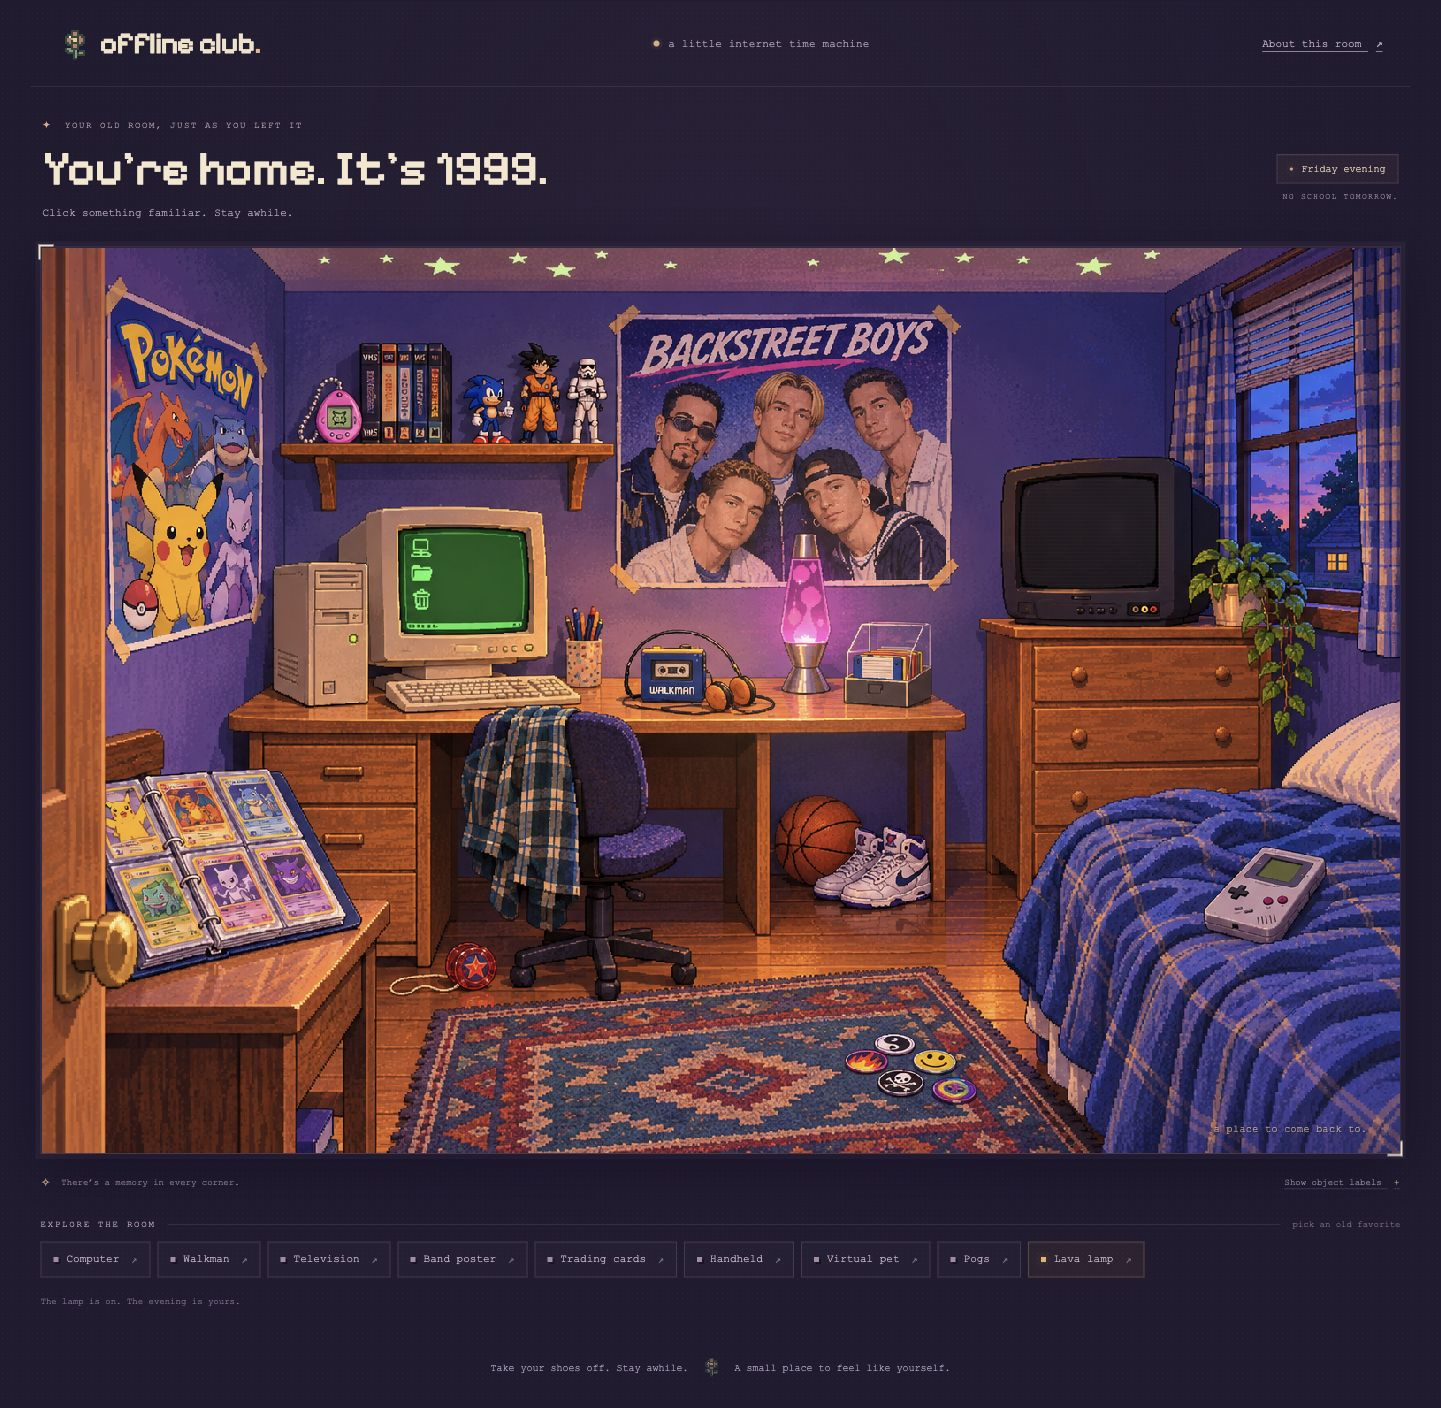
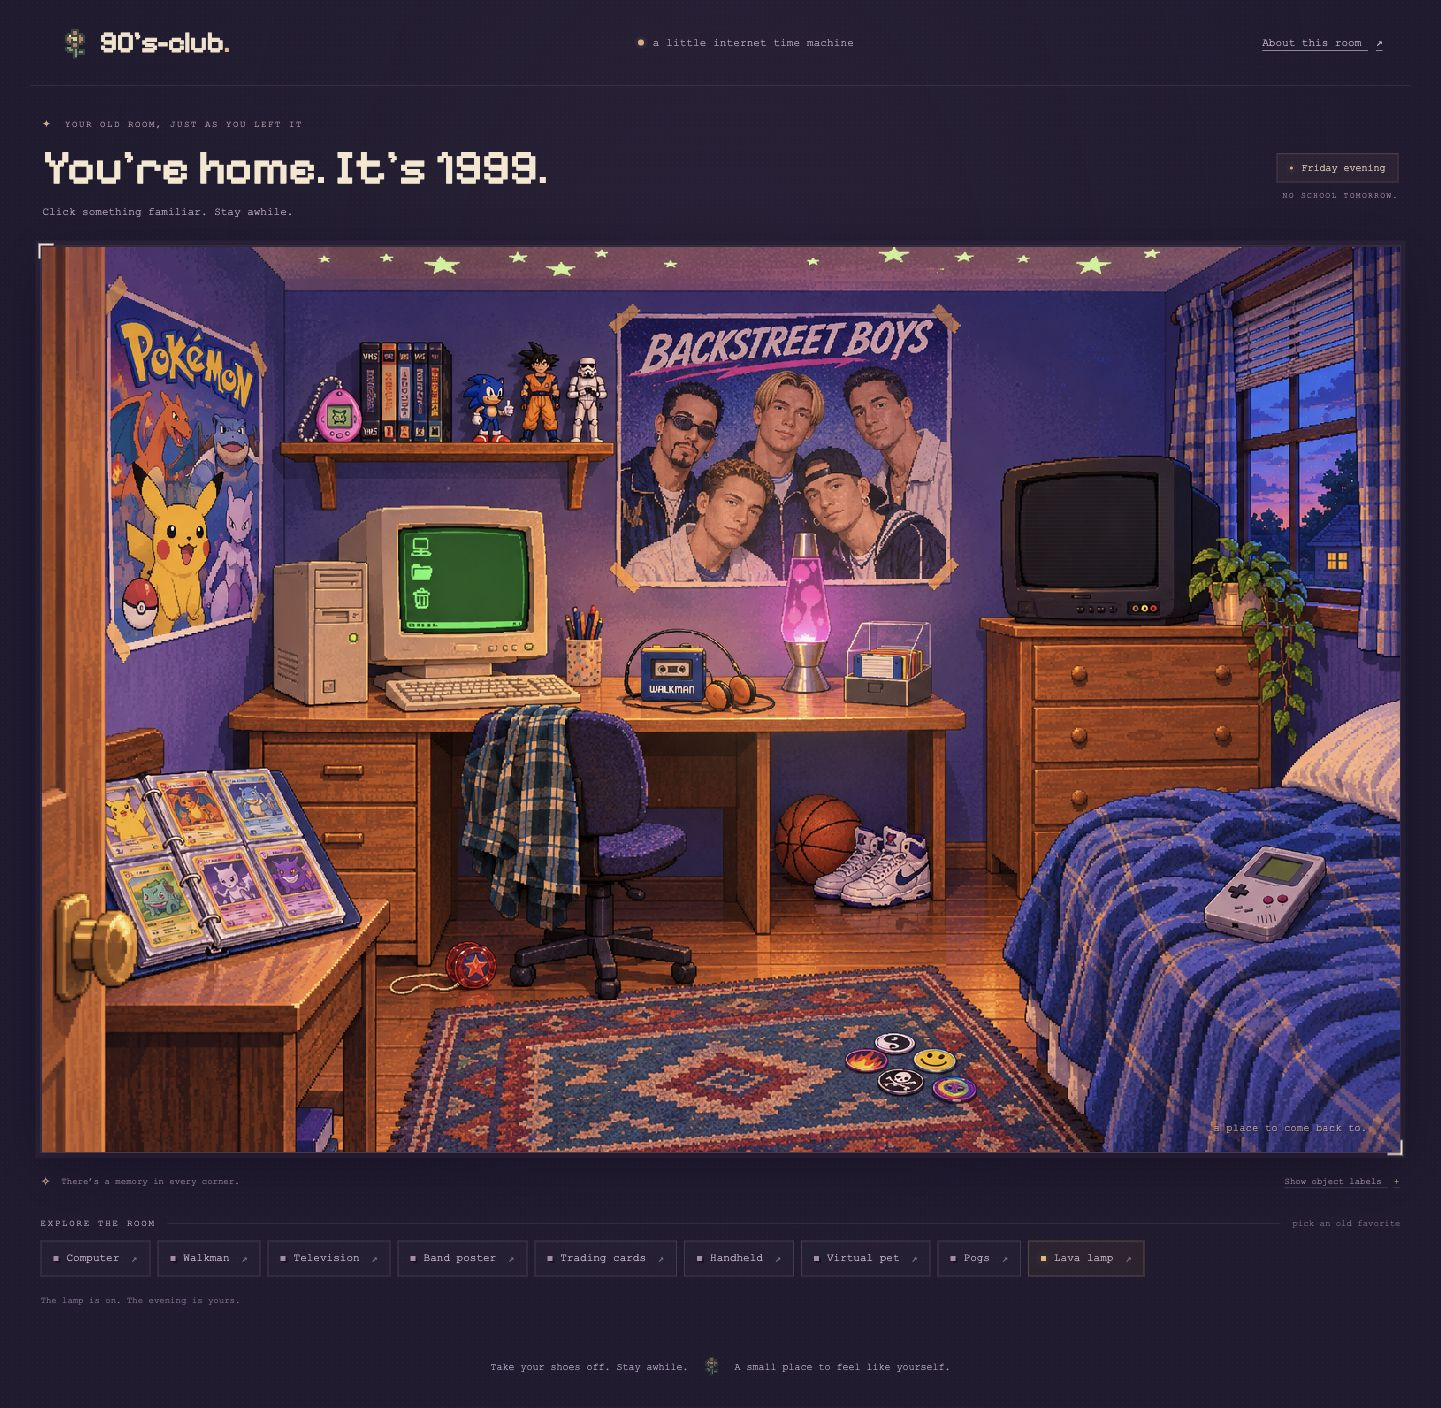
Update Site source

diff --git a/dist/index.html b/dist/index.html
@@ -6,11 +6,11 @@
   <meta name="theme-color" content="#25203d">
   <meta name="referrer" content="strict-origin-when-cross-origin">
   <meta name="description" content="It's Friday evening, 1999. Explore a pixel bedroom, open the old PC, play an 80s/90s mixtape, watch the CRT television, and flick through your Pokémon binder.">
-  <meta property="og:title" content="Offline Club — a little internet time machine">
+  <meta property="og:title" content="90's-club — a little internet time machine">
   <meta property="og:description" content="A bedroom full of things you remember. A computer full of little games. An 80s/90s mixtape waiting to play.">
   <meta property="og:type" content="website">
   <meta property="og:url" content="https://offline-club-98.btc0days.chatgpt.site">
-  <title>Offline Club — your bedroom, 1999</title>
+  <title>90's-club — your bedroom, 1999</title>
   <link rel="icon" type="image/svg+xml" href="./assets/favicon.svg">
   <link rel="stylesheet" href="./styles.css">
   <link rel="stylesheet" href="./modules/games.css">
@@ -25,7 +25,7 @@
 <body class="bedroom-mode">
   <a class="skip-link" href="#bedroom-root">Skip to the bedroom</a>
   <header class="site-header">
-    <a class="wordmark" href="./" aria-label="Offline Club home"><span data-icon="flower" data-size="32"></span><span>offline club<span class="wordmark-dot">.</span></span></a>
+    <a class="wordmark" href="./" aria-label="90's-club home"><span data-icon="flower" data-size="32"></span><span>90's-club<span class="wordmark-dot">.</span></span></a>
     <div class="header-note"><span class="little-dot"></span> a little internet time machine</div>
     <button class="top-about" id="room-about">About this room <span aria-hidden="true">↗</span></button>
   </header>
@@ -55,17 +55,17 @@
               <div class="desktop-note" aria-hidden="true"><span class="note-pin"></span>it's okay to<br>just be here.<span class="note-flower" data-icon="flower" data-size="23"></span></div>
               <div class="window-layer" id="window-layer"></div>
               <div class="start-menu" id="start-menu" hidden>
-                <div class="start-menu-spine">offline<span>club</span></div>
+                <div class="start-menu-spine">90's-<span>club</span></div>
                 <div class="start-menu-items"><p>Make yourself at home.</p><button data-open="welcome"><span data-icon="folder" data-size="25"></span>Game Room</button><button data-open="paint"><span data-icon="paint" data-size="25"></span>Paint Pad</button><button data-open="notes"><span data-icon="notes" data-size="25"></span>Notebook</button><button data-open="radio"><span data-icon="radio" data-size="25"></span>Mixtape Radio</button><div class="menu-rule"></div><button id="break-menu"><span data-icon="moon" data-size="25"></span>Take a break…</button></div>
               </div>
             </div>
             <div class="taskbar"><button class="start-button bevel" id="start-button" aria-expanded="false" aria-controls="start-menu"><span data-icon="flower" data-size="22"></span>Start</button><span class="task-divider"></span><div id="task-buttons" class="task-buttons" aria-label="Open windows"></div><div class="system-tray"><button id="sound-button" aria-label="Enable gentle game sounds" aria-pressed="false" title="Game sounds: off"><span data-icon="volume" data-size="17"></span><span class="muted-cross" aria-hidden="true">×</span></button><time id="clock" aria-label="Local time"></time></div></div>
             <div class="screen-grain" aria-hidden="true"></div>
             <div class="break-screen" id="break-screen" hidden><span data-icon="moon" data-size="72"></span><p>Nothing urgent.</p><span>Take all the time you need.</span><button class="bevel" id="resume-button">Back to the desktop</button></div>
-            <div class="project-intro" id="project-intro" role="dialog" aria-modal="true" aria-label="Welcome to Offline Club" hidden></div>
+            <div class="project-intro" id="project-intro" role="dialog" aria-modal="true" aria-label="Welcome to 90's-club" hidden></div>
           </div>
         </div>
-        <div class="monitor-chin"><div class="hardware-brand"><span class="hardware-emblem">oc</span><span>OFFLINE CLUB<span class="hardware-model">PERSONAL COMPUTER</span></span></div><div class="chin-middle"><span></span><span></span><span></span><span></span><span></span><span></span><span></span><span></span></div><button class="power-button" id="power-button" aria-label="Take a break from the screen" title="Take a break"><span class="power-led"></span><span class="power-glyph" aria-hidden="true">⏻</span></button></div>
+        <div class="monitor-chin"><div class="hardware-brand"><span class="hardware-emblem">90</span><span>90's-club<span class="hardware-model">PERSONAL COMPUTER</span></span></div><div class="chin-middle"><span></span><span></span><span></span><span></span><span></span><span></span><span></span><span></span></div><button class="power-button" id="power-button" aria-label="Take a break from the screen" title="Take a break"><span class="power-led"></span><span class="power-glyph" aria-hidden="true">⏻</span></button></div>
       </div>
       <div class="monitor-neck" aria-hidden="true"></div><div class="monitor-foot" aria-hidden="true"></div>
     </section>

diff --git a/dist/app.js b/dist/app.js
@@ -106,7 +106,7 @@ function openApp(id) {
   el.style.width = `${width}px`; el.style.height = `${height}px`;
   el.style.left = `${mobile ? Math.max(6, (available - width) / 2) : Math.max(105, (available - width) / 2 + 28) + (windows.size % 3) * 12}px`;
   el.style.top = `${mobile ? 30 : 36 + (windows.size % 3) * 17}px`;
-  el.innerHTML = `<div class="window-titlebar">${icon(app.icon, 18)}<span class="window-title">${app.title}</span><div class="window-actions"><button class="window-action minimize" aria-label="Minimize ${app.title}" title="Minimize">_</button><button class="window-action maximize" aria-label="Maximize ${app.title}" title="Maximize">□</button><button class="window-action close" aria-label="Close ${app.title}" title="Close">×</button></div></div>${id === 'welcome' ? '<nav class="window-menu" aria-label="Game Room menu"><button data-open="welcome">Games</button><button data-open="paint">Make something</button><button data-open="about">About</button></nav>' : ''}<div class="window-content"></div><div class="window-status"><span>${id === 'welcome' ? '3 small games. One good afternoon.' : 'Offline Club · personal edition'}</span><span>${id === 'welcome' ? 'Ready when you are.' : 'Take your time.'}</span></div>`;
+  el.innerHTML = `<div class="window-titlebar">${icon(app.icon, 18)}<span class="window-title">${app.title}</span><div class="window-actions"><button class="window-action minimize" aria-label="Minimize ${app.title}" title="Minimize">_</button><button class="window-action maximize" aria-label="Maximize ${app.title}" title="Maximize">□</button><button class="window-action close" aria-label="Close ${app.title}" title="Close">×</button></div></div>${id === 'welcome' ? '<nav class="window-menu" aria-label="Game Room menu"><button data-open="welcome">Games</button><button data-open="paint">Make something</button><button data-open="about">About</button></nav>' : ''}<div class="window-content"></div><div class="window-status"><span>${id === 'welcome' ? '3 small games. One good afternoon.' : "90's-club · personal edition"}</span><span>${id === 'welcome' ? 'Ready when you are.' : 'Take your time.'}</span></div>`;
   const task = document.createElement('button'); task.className = 'task-button'; task.setAttribute('aria-pressed', 'true'); task.innerHTML = `${icon(app.icon, 17)}<span>${id === 'welcome' ? 'Game Room' : id === 'notes' ? 'Notebook' : id === 'radio' ? 'Mixtape' : app.title.split(' — ')[0]}</span>`;
   task.addEventListener('click', () => { const state = windows.get(id); if (!state) return; if (!state.minimized && state.el.classList.contains('active')) minimizeWindow(id); else focusWindow(id); });
   tasks.append(task); layer.append(el);

diff --git a/dist/modules/intro.js b/dist/modules/intro.js
@@ -50,8 +50,8 @@ export function mountIntro(container, { onEnter } = {}) {
   const controller = new win.AbortController();
   const root = doc.createElement('section');
   root.className = 'intro-root intro-running';
-  root.setAttribute('aria-label', 'Welcome to Offline Club');
-  root.innerHTML = `<div class="intro-top"><span class="intro-wordmark">OFFLINE CLUB <span aria-hidden="true">✳</span></span><button type="button" class="intro-skip">Skip intro <span aria-hidden="true">↗</span></button></div>
+  root.setAttribute('aria-label', "Welcome to 90's-club");
+  root.innerHTML = `<div class="intro-top"><span class="intro-wordmark">90's-club <span aria-hidden="true">✳</span></span><button type="button" class="intro-skip">Skip intro <span aria-hidden="true">↗</span></button></div>
     <div class="intro-content"><div class="intro-stage" aria-hidden="true"><div class="intro-orbit"></div><div class="intro-pc">${PC}</div><div class="intro-tile intro-tile-game"><div class="intro-tile-bar"><i></i><span>play.exe</span></div>${GAME}</div><div class="intro-tile intro-tile-paint"><div class="intro-tile-bar"><i></i><span>paint.exe</span></div>${PAINT}</div><div class="intro-tile intro-tile-flower"><div class="intro-tile-bar"><i></i><span>take a breath</span></div>${FLOWER}</div><span class="intro-scene-caption">a softer kind of screen time</span></div>
     <div class="intro-copy"><p class="intro-eyebrow">HELLO, OLD FRIEND.</p><h1>A little internet<br>time machine.</h1><p class="intro-description">A few old favorites. A blank page.<br>A slower afternoon.</p><button type="button" class="intro-enter">Step inside <span aria-hidden="true">→</span></button><p class="intro-footnote">Make something. Play a little. Stay awhile.</p></div></div>
     <div class="intro-bottom"><span class="intro-caption">a small place to be, for a little while</span><button type="button" class="intro-motion">Pause animation</button></div>`;

diff --git a/dist/modules/media.js b/dist/modules/media.js
@@ -54,7 +54,7 @@ function mountPlayer(container, kind, { initialTrack = 'bsb-iwant', autoplay = f
   root.tabIndex = -1;
   root.setAttribute('aria-label', kind === 'music' ? 'Bedroom mixtape player' : 'Bedroom television');
   const heading = el(doc, 'div', 'media-heading');
-  heading.append(el(doc, 'span', 'media-kicker', kind === 'music' ? 'A BEDROOM MIXTAPE' : 'JUST ONE MORE CHANNEL'), el(doc, 'span', 'media-brand', kind === 'music' ? 'OFFLINE / STEREO' : 'OFFLINE / COLOUR TV'));
+  heading.append(el(doc, 'span', 'media-kicker', kind === 'music' ? 'A BEDROOM MIXTAPE' : 'JUST ONE MORE CHANNEL'), el(doc, 'span', 'media-brand', kind === 'music' ? "90's-club / STEREO" : "90's-club / COLOUR TV"));
   root.append(heading);
 
   const cassette = el(doc, 'div', 'media-cassette');

diff --git a/dist/modules/apps.js b/dist/modules/apps.js
@@ -244,7 +244,7 @@ export function mountPaint(container, options = {}) {
     try {
       const link = element(doc, 'a');
       link.href = canvas.toDataURL('image/png');
-      link.download = 'offline-club-picture.png';
+      link.download = '90s-club-picture.png';
       doc.body.append(link);
       link.click();
       link.remove();

diff --git a/README.md b/README.md
@@ -1,16 +1,16 @@
-# Offline Club
+# 90's-club
 
 **You’re home. It’s Friday evening, 1999.**
 
 ### [Step inside the bedroom →](https://offline-club-98.btc0days.chatgpt.site)
 
-![A tour of Offline Club’s interactive 1999 bedroom: the computer pops out, the Pokémon binder opens and a tiny virtual pet gets a snack](docs/bedroom-preview.gif)
+![A tour of 90's-club’s interactive 1999 bedroom: the computer pops out, the Pokémon binder opens and a tiny virtual pet gets a snack](docs/bedroom-preview.gif)
 
 [View the full bedroom illustration](docs/bedroom-preview.jpg)
 
 The computer is on the desk. Your favourite band is on the wall. There’s a mixtape where you left it, and no school tomorrow. Click something familiar and stay awhile.
 
-[Explore the live room](https://offline-club-98.btc0days.chatgpt.site) · [Browse the source on GitHub](https://github.com/cloudweaver/offline-club)
+[Explore the live room](https://offline-club-98.btc0days.chatgpt.site) · [Browse the source on GitHub](https://github.com/cloudweaver/90s-club)
 
 ## Look around
 
